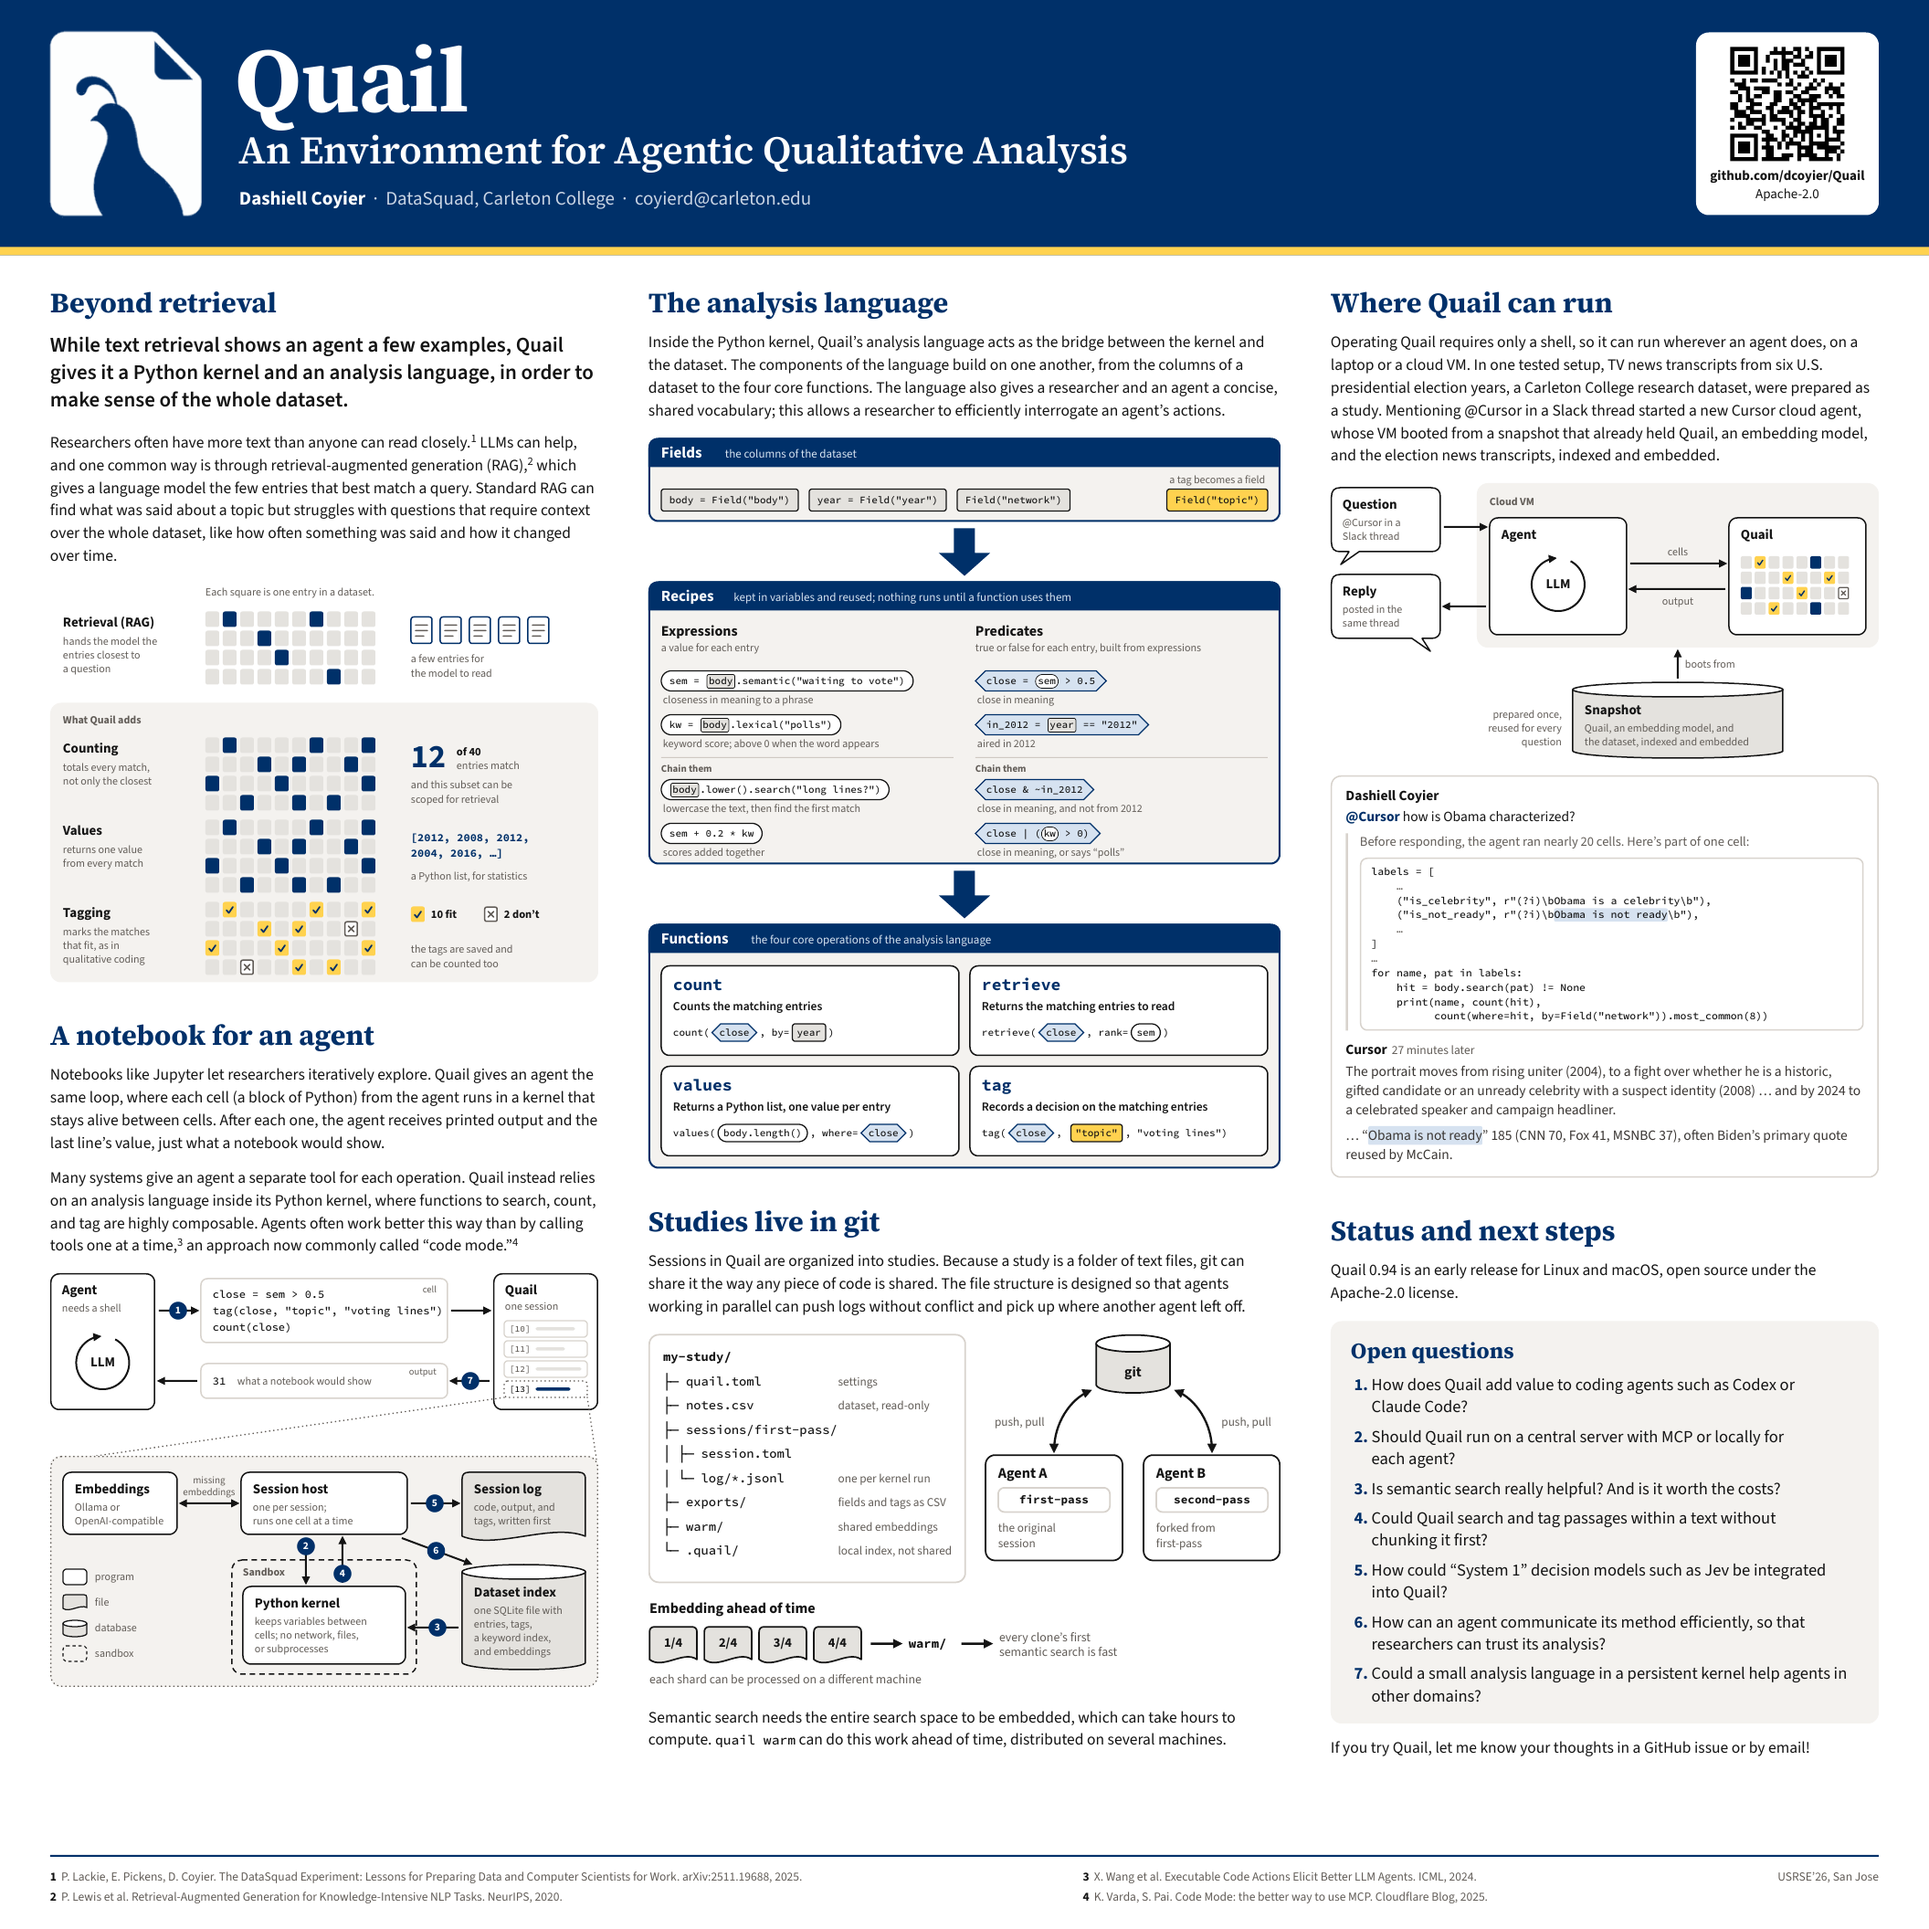
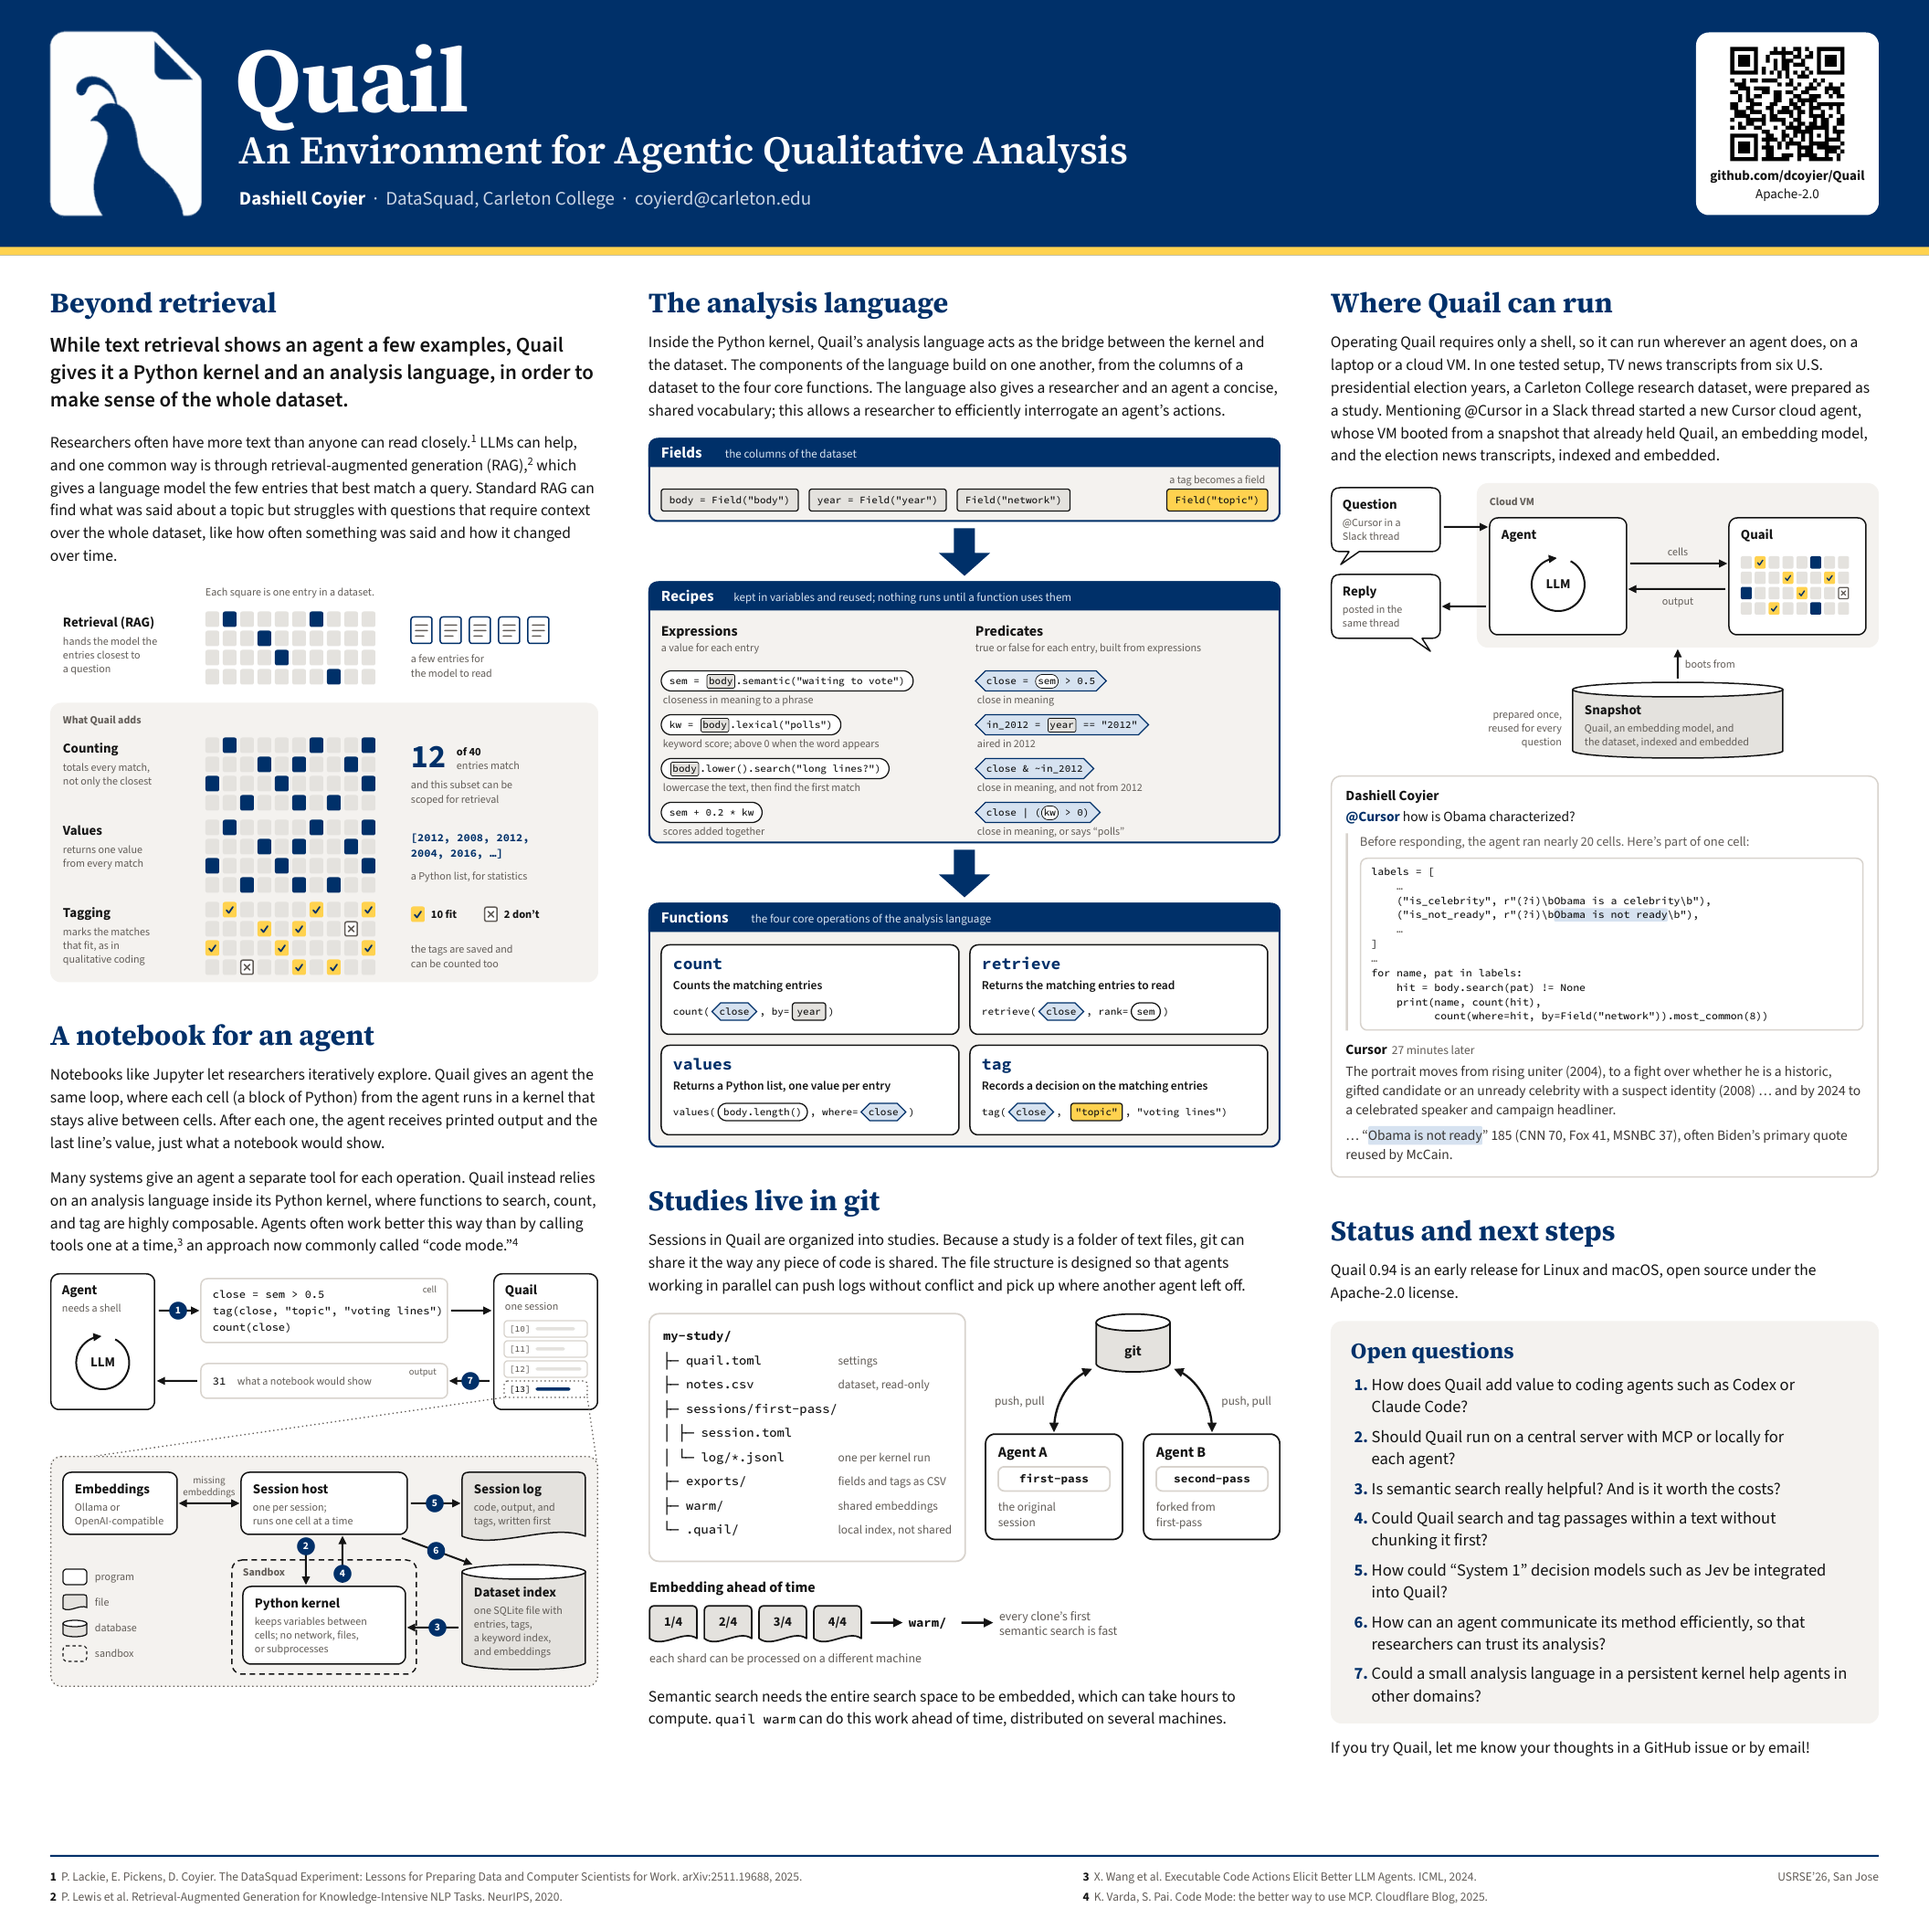
Drop the "Chain them" headings from the recipes panel
The combined examples already show they are built from the ones above.
Also carry the clearer .search() caption into the figure script.

Claude-Session: https://claude.ai/code/session_01ChZ8DmmKvsKSV4JFVieZLU

Changed region(s): [[0.3125, 0.375, 0.6875, 0.9062]]

diff --git a/poster/figures/language.py b/poster/figures/language.py
@@ -77,7 +77,7 @@ t(tx + tw / 2, chip_y - 12, "a tag becomes a field", anchor="middle")
 # ---------- Level 2: Recipes ----------
 GAP_LV = 130
 R_Y = F_Y + F_H + GAP_LV
-R_H = HS + 556
+R_H = HS + 510
 level(R_Y, R_H, "Recipes", "kept in variables and reused; nothing runs until a function uses them", 7)
 mid = CONTENT / 2
 col_l, col_r = PAD, mid + 24
@@ -87,11 +87,7 @@ for cx, title, gloss in [(col_l, "Expressions", "a value for each entry"), (col_
 
 def rows(cx, items, kind):
     y = R_Y + HS + 162
-    for k, (parts, gloss) in enumerate(items):
-        if k == 2:
-            add(f'<path d="M{cx:g},{y-32:g} H{cx+mid-PAD-24:g}" stroke="#CFC9C2" stroke-width="2"/>')
-            t(cx, y, "Chain them", "chain")
-            y += 46
+    for parts, gloss in items:
         w = measure(parts)
         if kind == "p":
             hexagon(cx, y - 30, w + 48, 44, "predchip"); code_line(cx + 24, y, parts)
@@ -103,7 +99,7 @@ def rows(cx, items, kind):
 rows(col_l, [
     ([("sem", None), (" = ", None), ("body", "f"), ('.semantic("waiting to vote")', None)], "closeness in meaning to a phrase"),
     ([("kw", None), (" = ", None), ("body", "f"), ('.lexical("polls")', None)], "keyword score; above 0 when the word appears"),
-    ([("body", "f"), ('.lower().search("long lines?")', None)], "methods in a row: the first match, or none"),
+    ([("body", "f"), ('.lower().search("long lines?")', None)], "lowercase the text, then find the first match"),
     ([("sem + 0.2 * kw", None)], "scores added together"),
 ], "e")
 rows(col_r, [
@@ -163,7 +159,6 @@ svg = f'''<?xml version="1.0" encoding="UTF-8"?>
     .lvgloss {{ font-size: 26px; fill: {BLUE_TINT}; }}
     .coltitle {{ font-size: 32px; font-weight: 700; }}
     .idea {{ font-size: 27px; font-weight: 600; }}
-    .chain {{ font-size: 22px; font-weight: 700; fill: #625D58; }}
     .fname {{ font-family: 'Source Code Pro', monospace; font-size: 36px; font-weight: 700; fill: {BLUE}; font-variant-ligatures: none; }}
     .code {{ font-family: 'Source Code Pro', monospace; font-size: {MONO}px; font-weight: 500; font-variant-ligatures: none; }}
     .card {{ fill: #fff; stroke: {INK}; stroke-width: 3; }}
